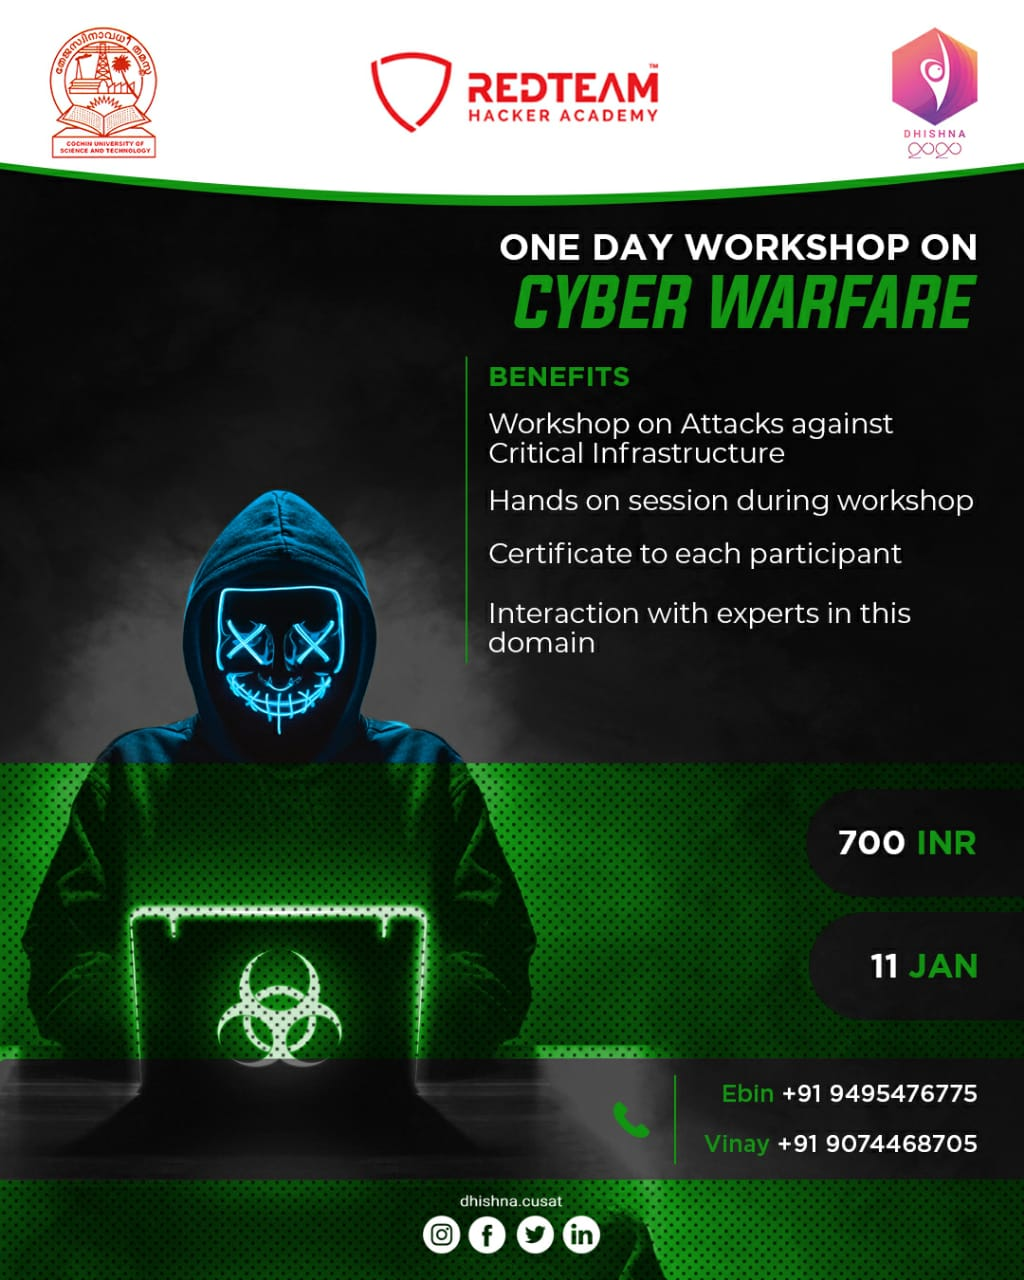
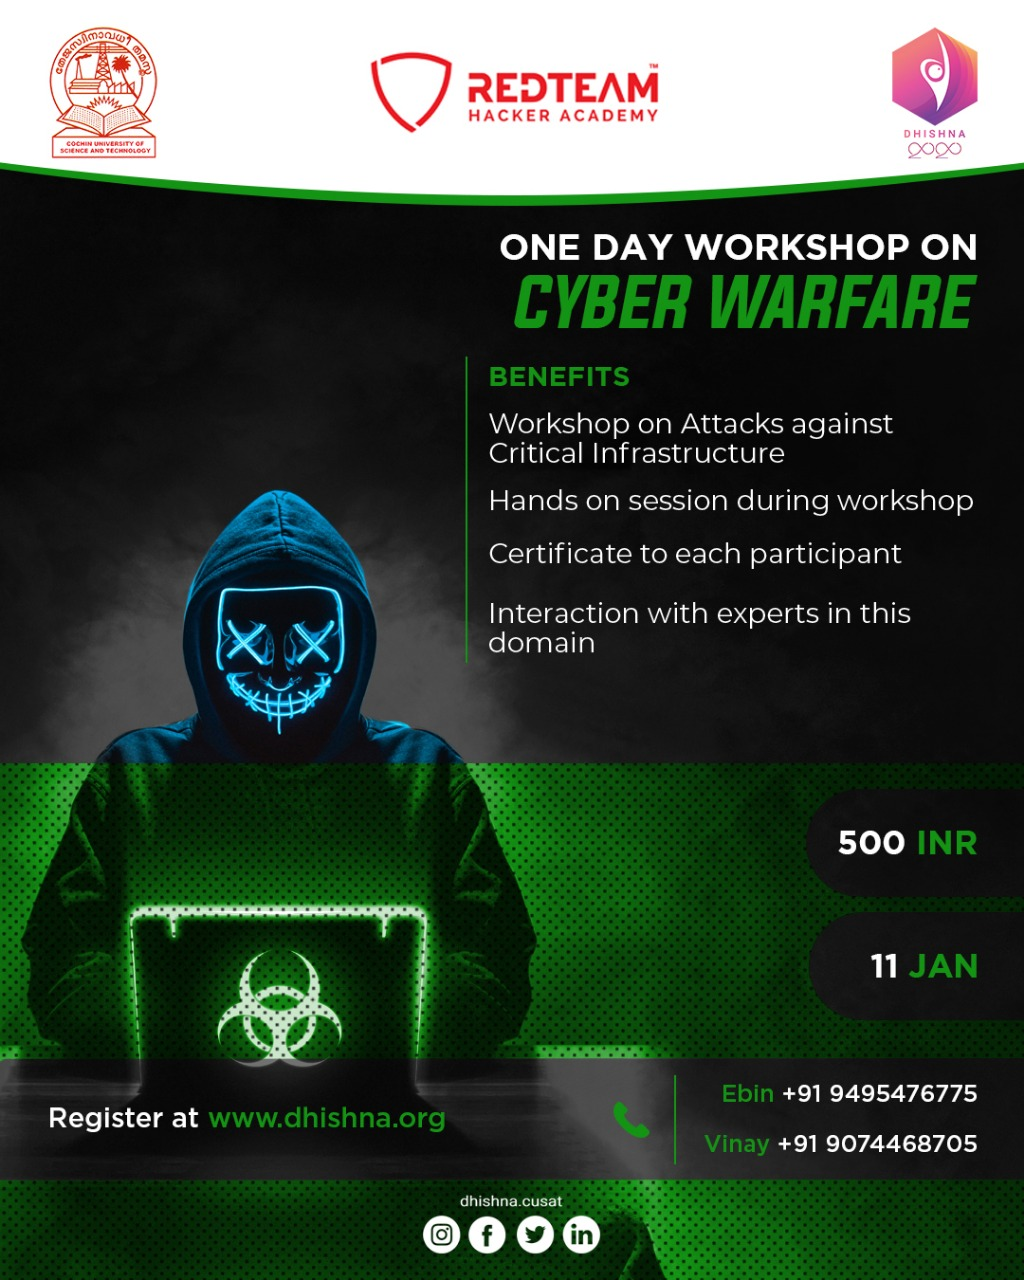
cyber warfare change

Changed region(s): [[0.1875, 0.8438, 0.4375, 0.9062], [0.0312, 0.8438, 0.1562, 0.9062], [0.8125, 0.6562, 0.8438, 0.6875]]

diff --git a/insert_to_Workshop.js b/insert_to_Workshop.js
@@ -178,7 +178,7 @@ var data = [
     {
         name : "Cyber Warfare",
         date : "11/1/2020",
-        price : "700",
+        price : "500",
         branch : "CS",
         content : "Cyberwarfare could turn every gadget you own into a weapon on a virtual battlefield. And the damage will be felt in the real world.To date, there hasn't been an outright 'cyber war' with declared antagonists, however, there are a number of incidents that have caused serious disruption to country's infrastructure that are suspected of being carried out by another state.Future wars will see hackers using computer code to attack an enemy's infrastructure, fighting alongside troops using conventional weapons like guns and missiles.  Dhishna'20 presents you a one day workshop on Cyberwarfare with certificate to each participant.",
         label : "technical",
